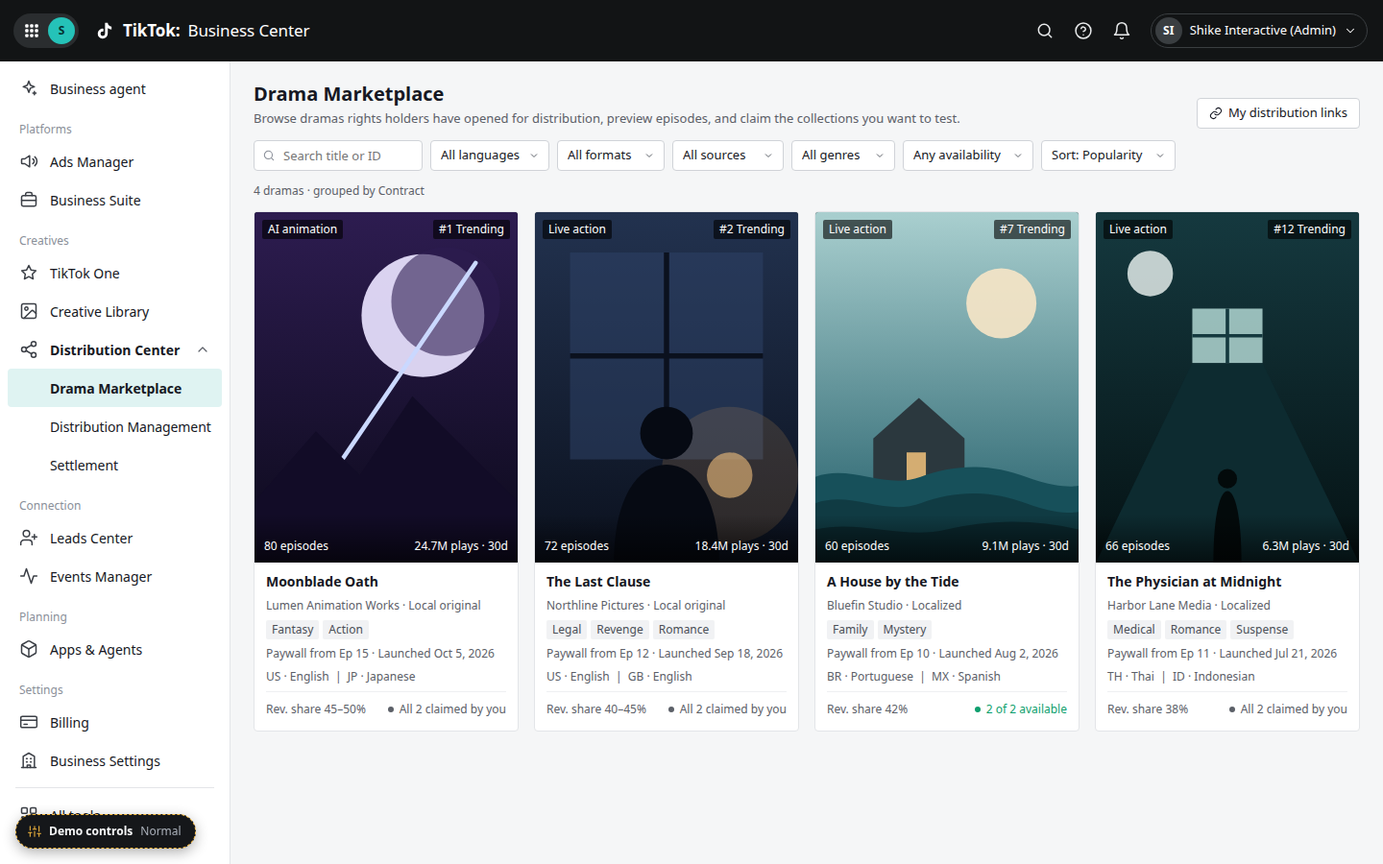
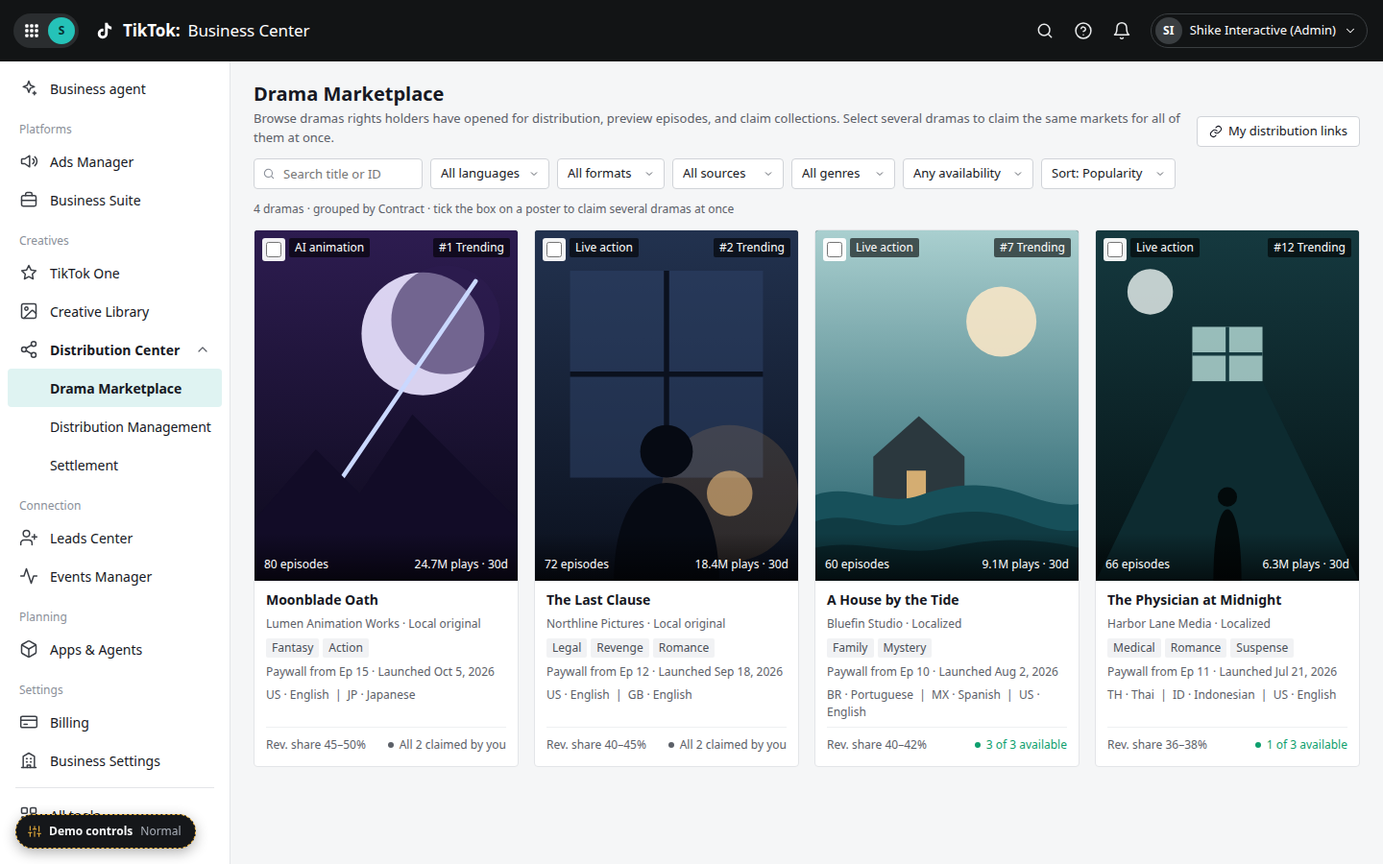
Sync prototype: bulk claim across contracts and two-step Confirm selection / Links ready flow

diff --git a/index.html b/index.html
@@ -162,6 +162,26 @@ button.kpi.on{box-shadow:inset 0 -2px 0 var(--primary)}
 .card{background:#fff;border:1px solid var(--border);border-radius:4px;overflow:hidden;cursor:pointer;display:flex;flex-direction:column;text-align:left;padding:0}
 .card:hover{border-color:#B9C0C7}
 .card:focus-visible{outline:2px solid var(--primary);outline-offset:1px}
+.card.picked{border-color:var(--primary);box-shadow:0 0 0 1px var(--primary)}
+.card-pick{width:24px;height:24px;border-radius:3px;background:rgba(255,255,255,.94);display:inline-flex;align-items:center;justify-content:center;cursor:pointer}
+.selbar{position:fixed;left:264px;right:24px;bottom:16px;z-index:60;background:#fff;border:1px solid var(--border2);border-left:3px solid var(--primary);border-radius:4px;box-shadow:0 4px 16px rgba(22,24,35,.14);display:flex;align-items:center;gap:8px;padding:8px 12px 8px 16px}
+.selbar .grow{flex:1;min-width:0;overflow:hidden;text-overflow:ellipsis;white-space:nowrap;color:var(--text2)}
+.selbar .grow b{color:var(--text)}
+.page-pad-sel{padding-bottom:72px}
+.steps{display:flex;align-items:center;gap:8px;font-size:12px;color:var(--text3);margin-bottom:14px}
+.steps span{display:inline-flex;align-items:center;gap:6px}
+.steps i{font-style:normal;width:18px;height:18px;border-radius:50%;border:1px solid var(--border2);display:inline-flex;align-items:center;justify-content:center;font-size:11px}
+.steps .on{color:var(--text);font-weight:600}
+.steps .on i{background:var(--primary);border-color:var(--primary);color:#fff}
+.steps .done{color:var(--primary-t)}
+.steps .done i{background:var(--primary-bg);border-color:var(--primary);color:var(--primary-t)}
+.steps .sep{width:32px;height:1px;background:var(--border2)}
+.mk-chips{display:flex;flex-wrap:wrap;gap:8px}
+.mk-chip{display:inline-flex;align-items:center;gap:8px;height:32px;padding:0 10px;border:1px solid var(--border2);border-radius:4px;cursor:pointer;background:#fff;font-weight:500}
+.mk-chip.on{border-color:var(--primary);background:var(--primary-bg)}
+.mk-chip .faint{font-weight:400;font-size:12px}
+.flow-h{font-size:12px;font-weight:600;color:var(--text2);margin:0 0 8px}
+.tbl td.grp{border-right:1px solid var(--row);vertical-align:top}
 .poster-box{position:relative;aspect-ratio:3/4;background:#1d2329;overflow:hidden}
 .poster-box svg.poster{position:absolute;inset:0;width:100%;height:100%;display:block}
 .poster-box .ov-tl{position:absolute;top:8px;left:8px;display:flex;gap:4px}
@@ -406,10 +426,12 @@ const COLLECTIONS = [
   {id:'COL-GB-18422', ctr:'CTR-902184', market:'United Kingdom', code:'GB', lang:'English', share:40},
   {id:'COL-BR-77310', ctr:'CTR-781230', market:'Brazil', code:'BR', lang:'Portuguese', share:42},
   {id:'COL-MX-77311', ctr:'CTR-781230', market:'Mexico', code:'MX', lang:'Spanish', share:42},
+  {id:'COL-US-77312', ctr:'CTR-781230', market:'United States', code:'US', lang:'English', share:40},
   {id:'COL-US-55001', ctr:'CTR-550361', market:'United States', code:'US', lang:'English', share:50},
   {id:'COL-JP-55002', ctr:'CTR-550361', market:'Japan', code:'JP', lang:'Japanese', share:45},
   {id:'COL-TH-34001', ctr:'CTR-340918', market:'Thailand', code:'TH', lang:'Thai', share:38},
-  {id:'COL-ID-34002', ctr:'CTR-340918', market:'Indonesia', code:'ID', lang:'Indonesian', share:38}
+  {id:'COL-ID-34002', ctr:'CTR-340918', market:'Indonesia', code:'ID', lang:'Indonesian', share:38},
+  {id:'COL-US-34003', ctr:'CTR-340918', market:'United States', code:'US', lang:'English', share:36}
 ];
 const ADS = {
   'COL-US-18421': [['1812004417','LC_US_hook_courtroom_v3','LC US · Broad · Oct'],['1812004418','LC_US_reveal_clause_v1','LC US · Broad · Oct'],['1812004431','LC_US_romance_cut_v2','LC US · Lookalike'],['1812004432','LC_US_ep12_tease','LC US · Lookalike'],['1812004450','LC_US_trailer_15s','LC US · Retarget']],
@@ -446,6 +468,7 @@ function freshUI(){
   return {
     mk:{q:'', lang:'all', format:'all', source:'all', genre:'all', avail:'all', sort:'pop'},
     lv:{q:'', status:'all', ap:'all', market:'all', sel:new Set()},
+    pick:new Set(),
     bd:{q:'', open:new Set(['CTR-902184'])},
     st:{period:'all', bc:'all', status:'all'},
     pl:{q:'', type:'all'},
@@ -459,7 +482,7 @@ function mkLink(col, code, created){
     history:[{t:created, e:'Link generated', d:'Key ' + col + ' × BC ' + BCS.main.id, k:'ok'}, {t:created, e:'Link active', d:'Distribution enabled by the rights holder in TTDC', k:'ok'}]};
 }
 function buildData(st){
-  const claim = {'COL-US-18421':'claimed','COL-GB-18422':'claimed','COL-BR-77310':'available','COL-MX-77311':'available','COL-US-55001':'claimed','COL-JP-55002':'claimed','COL-TH-34001':'claimed','COL-ID-34002':'claimed'};
+  const claim = {'COL-US-18421':'claimed','COL-GB-18422':'claimed','COL-BR-77310':'available','COL-MX-77311':'available','COL-US-55001':'claimed','COL-JP-55002':'claimed','COL-TH-34001':'claimed','COL-ID-34002':'claimed','COL-US-77312':'available','COL-US-34003':'available'};
   const d = {
     cols: COLLECTIONS.map(c => Object.assign({}, c, {claim:claim[c.id], dist:'open'})),
     links: [mkLink('COL-US-18421','k7Qm2x','Sep 20, 2026 10:14 UTC'), mkLink('COL-GB-18422','p3Lw9a','Sep 21, 2026 08:02 UTC'), mkLink('COL-US-55001','v8Rt4c','Oct 7, 2026 15:40 UTC'), mkLink('COL-TH-34001','d2Hn6s','Aug 2, 2026 11:25 UTC')],
@@ -510,7 +533,8 @@ function buildData(st){
   if (st === 'partial'){
     const j = mkLink('COL-JP-55002','m5Yz8e','Nov 3, 2026 02:55 UTC'); j.isNew = true; d.links.push(j);
     C('COL-BR-77310').claim = 'claimed';
-    d.lastClaim = {ctr:'CTR-781230', items:[{col:'COL-BR-77310', r:'claimed'}, {col:'COL-MX-77311', r:'failed', why:'Terms changed while you were confirming (revenue share 42% to 40%, version 3 to 4). Review the new terms and claim again.'}]};
+    const b = mkLink('COL-BR-77310','b3Rv6k','Nov 3, 2026 02:52 UTC'); b.isNew = true; d.links.push(b);
+    d.lastClaim = {ctrs:['CTR-781230'], items:[{col:'COL-BR-77310', r:'ready'}, {col:'COL-MX-77311', r:'failed', why:'Terms changed while you were confirming (revenue share 42% to 40%, version 3 to 4). Review the new terms and try again.'}]};
     d.lastGen = [{col:'COL-JP-55002', r:'generated'}, {col:'COL-ID-34002', r:'failed', why:'Collection version is updating in TTDC. Retry in a few minutes; retrying won\u2019t create a duplicate link.'}, {col:'COL-US-55001', r:'existed'}];
     d.stmPartial = true;
   }
@@ -656,7 +680,7 @@ function onRoute(){
   const page = ROUTE[path];
   const st = STATES.some(x => x[0] === state) ? state : 'normal';
   if (!page || state !== st || PATH[page] !== path){ location.replace('#' + PATH[page || 'marketplace'] + '?state=' + st); return; }
-  if (st !== S.state || !S.data){ S.state = st; S.data = buildData(st); UI.lv.sel.clear(); UI.dismissed.clear(); closeAll(); stopPlayer(); }
+  if (st !== S.state || !S.data){ S.state = st; S.data = buildData(st); UI.lv.sel.clear(); UI.pick.clear(); UI.dismissed.clear(); closeAll(); stopPlayer(); }
   if (page !== S.page){ const first = S.page === null; S.page = page; closeAll(); stopPlayer(); if (!first) window.scrollTo(0, 0); }
   render();
   if (S.after){ const f = S.after; S.after = null; f(); }
@@ -710,11 +734,11 @@ function pageMarketplace(){
   const f = UI.mk; const st = S.state;
   const langs = Array.from(new Set(COLLECTIONS.map(c => c.lang)));
   const genres = Array.from(new Set([].concat(...CONTRACTS.map(c => c.genres)))).sort();
-  let out = `<div class="ph"><div><h1>Drama Marketplace</h1><p>Browse dramas rights holders have opened for distribution, preview episodes, and claim the collections you want to test.</p></div><div><button class="btn" data-act="go" data-to="links">${ic('link', 14)}My distribution links</button></div></div>`;
+  let out = `<div class="ph"><div><h1>Drama Marketplace</h1><p>Browse dramas rights holders have opened for distribution, preview episodes, and claim collections. Select several dramas to claim the same markets for all of them at once.</p></div><div><button class="btn" data-act="go" data-to="links">${ic('link', 14)}My distribution links</button></div></div>`;
   out += '<div class="stack">';
   const gn = globalNotice(); if (gn) out += gn;
-  if (st === 'partial' && D().lastClaim && !UI.dismissed.has('mk-partial')) out += banner('warn', '<b>Your last claim partially succeeded.</b> A House by the Tide: 1 collection claimed, 1 failed because the terms changed during confirmation.', '<button class="btn btn-sm" data-act="last-claim">View results</button><button class="btn btn-icon" data-act="dismiss" data-k="mk-partial" aria-label="Dismiss">' + ic('close', 14) + '</button>');
-  if (st === 'unknown' && colOf('COL-MX-77311').claim === 'confirming') out += banner('warn', '<b>A claim is still being confirmed.</b> A House by the Tide · Mexico · Spanish (COL-MX-77311). Don\u2019t submit it again; the result updates automatically.', '<button class="btn btn-sm" data-act="recheck-claim" data-col="COL-MX-77311">Check again</button>', 'clock');
+  if (st === 'partial' && D().lastClaim && !UI.dismissed.has('mk-partial')) out += banner('warn', '<b>Your last claim partially succeeded.</b> A House by the Tide: 1 collection claimed with its link ready, 1 failed because the terms changed during confirmation.', '<button class="btn btn-sm" data-act="last-claim">View results</button><button class="btn btn-icon" data-act="dismiss" data-k="mk-partial" aria-label="Dismiss">' + ic('close', 14) + '</button>');
+  if (st === 'unknown' && colOf('COL-MX-77311').claim === 'confirming') out += banner('warn', '<b>A claim is still being confirmed.</b> A House by the Tide · Mexico · Spanish (COL-MX-77311). Don\u2019t submit it again; its link is generated automatically once the claim is confirmed.', '<button class="btn btn-sm" data-act="recheck-claim" data-col="COL-MX-77311">Check again</button>', 'clock');
   if (st === 'invalid') out += banner('err', '<b>3 collections you claimed are no longer open for distribution.</b> Their links are invalid and TTAM is auto-pausing affected ads.', '<button class="btn btn-sm" data-act="go-links-invalid">Review links</button>');
   if (st !== 'empty' && st !== 'error'){
     out += `<div class="toolbar"><div class="left">
@@ -735,17 +759,23 @@ function pageMarketplace(){
     out += '<div class="panel">' + emptyBlock('film', 'No dramas are open for distribution yet', 'Rights holders open dramas for distribution in TTDC. New dramas appear here automatically.', '<button class="btn" data-act="toast" data-msg="Checked for updates. No new dramas yet." data-type="info">' + ic('refresh', 14) + 'Check for updates</button>') + '</div>';
   } else {
     const list = mkFiltered();
-    out += `<div class="mk-count">${plural(list.length, 'drama')} · grouped by Contract</div>`;
+    const pk = UI.pick.size;
+    out += `<div class="mk-count">${plural(list.length, 'drama')} · grouped by Contract${pk ? '' : ' · tick the box on a poster to claim several dramas at once'}</div>`;
     if (!list.length) out += '<div class="panel">' + emptyBlock('search', 'No dramas match your filters', 'Try a different keyword or clear filters.', '<button class="btn" data-act="mk-clear">Clear filters</button>') + '</div>';
     else out += '<div class="grid">' + list.map(card).join('') + '</div>';
+    if (pk){
+      const names = Array.from(UI.pick).map(id => ctrOf(id).title);
+      out += `<div class="page-pad-sel"></div><div class="selbar" role="region" aria-label="Selected dramas"><span class="grow"><b>${plural(pk, 'drama')} selected</b> · ${esc(names.join(', '))}</span><button class="btn" data-act="pick-all">Select all shown</button><button class="btn" data-act="pick-clear">Clear</button><button class="btn btn-primary" data-act="bulk-claim">Claim collections</button></div>`;
+    }
   }
   return out + '</div>';
 }
 function card(c){
   const cs = colsOf(c.id); const shares = cs.map(x => x.share); const mn = Math.min.apply(null, shares), mx = Math.max.apply(null, shares);
-  return `<button class="card" data-act="open-drama" data-id="${c.id}" aria-label="${esc(c.title)}">
+  const on = UI.pick.has(c.id);
+  return `<div class="card ${on ? 'picked' : ''}" role="button" tabindex="0" data-act="open-drama" data-id="${c.id}" aria-label="${esc(c.title)}">
     <div class="poster-box">${poster(c.id)}
-      <div class="ov-tl"><span class="tag dark">${c.format}</span></div>
+      <div class="ov-tl"><label class="card-pick" title="Select for bulk claim"><input type="checkbox" class="cb" name="pick-${c.id}" data-chg="mk-pick" data-id="${c.id}" ${on ? 'checked' : ''} aria-label="Select ${esc(c.title)}"></label><span class="tag dark">${c.format}</span></div>
       <div class="ov-tr"><span class="tag dark">#${c.rank} Trending</span></div>
       <div class="ov-b"><span>${c.episodes} episodes</span><span>${c.plays} plays · 30d</span></div>
     </div>
@@ -756,7 +786,7 @@ function card(c){
       <div class="card-m">Paywall from Ep ${c.paywall} · Launched ${c.launchL}</div>
       <div class="card-m">${cs.map(x => x.code + ' · ' + x.lang).join('&nbsp;&nbsp;|&nbsp;&nbsp;')}</div>
       <div class="card-f"><span class="muted">Rev. share ${mn === mx ? mn + '%' : mn + '–' + mx + '%'}</span>${claimSummary(c.id)}</div>
-    </div></button>`;
+    </div></div>`;
 }
 
 /* Drama detail drawer + player */
@@ -843,7 +873,7 @@ function dramaDrawer(ctrId){
   return {title:c.title, width:780,
     sub:`<span>${c.holder}</span><span class="faint">·</span><span class="mono">${c.id}</span><span class="tag">${c.format}</span><span class="tag">${c.source}</span>`,
     body,
-    footer:`<span class="grow">${n ? plural(n, 'collection') + ' selected' : 'Select collections to claim. Claiming doesn\u2019t create ads.'}</span><button class="btn" data-act="close-drawer">Close</button><button class="btn btn-primary" data-act="claim-open">Claim selected${n ? ' (' + n + ')' : ''}</button>`};
+    footer:`<span class="grow">${n ? plural(n, 'collection') + ' selected · links are generated automatically' : 'Select collections to claim. Links are generated automatically; no ads are created.'}</span><button class="btn" data-act="close-drawer">Close</button><button class="btn btn-primary" data-act="claim-open">Claim selected${n ? ' (' + n + ')' : ''}</button>`};
 }
 function updatePlayer(){
   const c = ctrOf(PL.ctr); if (!c || !$('#player')){ stopPlayer(); return; }
@@ -872,41 +902,88 @@ function playToggle(){
   updatePlayer();
 }
 
-/* Claim flow */
-function claimConfirmModal(ctrId){
-  const c = ctrOf(ctrId); const items = Array.from(DS.sel).map(colOf);
-  return {title:'Confirm claim', width:600,
-    body:`<p style="margin:0 0 12px">You\u2019re claiming ${plural(items.length, 'collection')} of <b>${c.title}</b> for <b>${BCS.main.name}</b> (BC ${BCS.main.id}).</p>
-      <div class="panel"><table class="tbl"><thead><tr><th>Market · language</th><th style="width:160px">Collection ID</th><th class="num" style="width:100px">Rev. share</th></tr></thead><tbody>${items.map(x => `<tr><td>${colLabel(x)}</td><td class="mono">${x.id}</td><td class="num">${x.share}%</td></tr>`).join('')}</tbody></table></div>
-      <ul class="muted" style="margin:12px 0 0;padding-left:18px">
-        <li>Each claim is keyed by Collection ID × your Business Center. Submitting twice won\u2019t create a duplicate claim.</li>
-        <li>Claiming doesn\u2019t create ads. After claiming, generate distribution links and use them in TTAM.</li>
-        <li>If the rights holder changes terms while you confirm, that collection won\u2019t be claimed and you\u2019ll see why.</li></ul>`,
-    footer:`<button class="btn" data-act="close-modal">Cancel</button><button class="btn btn-primary" data-act="claim-submit" data-ctr="${ctrId}">Confirm claim</button>`};
+/* Claim flow: Confirm selection -> Links ready (single drama or bulk) */
+const CF = {ctrs:[], keys:new Set(), results:null};
+const mkKey = c => c.market + ' · ' + c.lang;
+function openClaimFlow(ctrs, keys){ CF.ctrs = ctrs.slice(); CF.keys = new Set(keys || []); CF.results = null; openModal(claimFlowModal); }
+function flowOptions(){
+  const m = new Map();
+  CF.ctrs.forEach(id => colsOf(id).forEach(c => { const k = mkKey(c); const e = m.get(k) || {k, has:0}; e.has++; m.set(k, e); }));
+  return Array.from(m.values()).sort((a, b) => b.has - a.has || a.k.localeCompare(b.k));
 }
-function claimOutcome(ids){
-  return ids.map((id, i) => {
-    const c = colOf(id);
-    if (c.claim === 'claimed') return {col:id, r:'existed'};
-    if (S.state === 'unknown'){ c.claim = 'confirming'; return {col:id, r:'unknown'}; }
-    if (S.state === 'partial' && ids.length > 1 && i === ids.length - 1) return {col:id, r:'failed', why:'Terms changed while you were confirming (revenue share ' + c.share + '% to ' + (c.share - 2) + '%). Review the new terms and claim again.'};
-    c.claim = 'claimed'; return {col:id, r:'claimed'};
+function claimPlan(){
+  return CF.ctrs.map(id => {
+    const cs = colsOf(id); const items = [], missing = [];
+    flowOptions().map(o => o.k).filter(k => CF.keys.has(k)).forEach(k => {
+      const c = cs.find(x => mkKey(x) === k);
+      if (!c){ missing.push(k); return; }
+      let act = 'claim', note = 'Claim and generate link';
+      if (c.dist !== 'open'){ act = 'na'; note = 'No longer open for distribution'; }
+      else if (c.claim === 'confirming'){ act = 'skip'; note = 'An earlier claim is still confirming'; }
+      else if (c.claim === 'claimed' && linkOf(c.id)){ act = 'skip'; note = 'Already claimed by you; link exists'; }
+      else if (c.claim === 'claimed'){ act = 'link'; note = 'Already claimed · generate link'; }
+      items.push({col:c.id, act, note});
+    });
+    return {ctr:id, items, missing};
   });
 }
-const CLAIM_R = {claimed:['ok','Claimed'], existed:['muted','Already claimed'], failed:['err','Failed'], unknown:['warn spin','Confirming']};
-function claimResultModal(res){
-  const ctr = ctrOf(colOf(res.items[0].col).ctr);
-  const n = k => res.items.filter(x => x.r === k).length;
-  const ok = n('claimed') + n('existed');
-  const unknown = n('unknown'), failed = n('failed');
-  const title = unknown ? 'Claim result pending' : failed && ok ? 'Claim partially succeeded' : failed ? 'Claim failed' : 'Collections claimed';
-  return {title, width:640, sub:ctr.title + ' · ' + BCS.main.name,
-    body:`<div class="res-sum"><div><b>${n('claimed')}</b>Claimed</div><div><b>${n('existed')}</b>Already claimed</div><div><b>${failed}</b>Failed</div><div><b>${unknown}</b>Confirming</div></div>
-      ${unknown ? banner('warn', 'We\u2019re still confirming with the rights holder system. <b>Don\u2019t submit again</b>; a repeat request won\u2019t create a duplicate, and the result updates automatically.', '', 'clock') + '<div style="height:12px"></div>' : ''}
-      <div class="panel"><table class="tbl"><thead><tr><th>Collection</th><th style="width:150px">Result</th><th>Details</th></tr></thead><tbody>${res.items.map(x => { const c = colOf(x.col); return `<tr><td><div class="cell-title">${colLabel(c)}</div><div class="cell-sub mono">${c.id}</div></td><td>${stChip(CLAIM_R, x.r)}</td><td class="cell-sub" style="white-space:normal">${x.why || (x.r === 'claimed' ? 'Ready for link generation' : x.r === 'existed' ? 'No duplicate created' : x.r === 'unknown' ? 'Waiting for confirmation' : '')}</td></tr>`; }).join('')}</tbody></table></div>`,
-    footer:`${unknown ? '<button class="btn" data-act="claim-recheck">' + ic('refresh', 14) + 'Check again</button>' : ''}${failed ? '<button class="btn" data-act="claim-retry">Review and retry failed</button>' : ''}<button class="btn" data-act="close-modal">Done</button>${ok ? '<button class="btn btn-primary" data-act="claim-to-gen">Generate links</button>' : ''}`};
+function stepper(n){ return `<div class="steps"><span class="${n === 1 ? 'on' : 'done'}"><i>${n === 1 ? '1' : ic('check', 10)}</i>Confirm selection</span><span class="sep"></span><span class="${n === 2 ? 'on' : ''}"><i>2</i>Links ready</span></div>`; }
+function claimFlowModal(){ return CF.results ? linksReadyModal() : confirmSelModal(); }
+function confirmSelModal(){
+  const M = CF.ctrs.length; const opts = flowOptions(); const plan = claimPlan();
+  const todo = [].concat(...plan.map(p => p.items.filter(i => i.act === 'claim' || i.act === 'link')));
+  const skipN = plan.reduce((a, p) => a + p.items.filter(i => i.act === 'skip' || i.act === 'na').length + (p.missing.length ? 1 : 0), 0);
+  const chips = opts.map((o, i) => `<label class="mk-chip ${CF.keys.has(o.k) ? 'on' : ''}"><input type="checkbox" class="cb" name="cf-k${i}" data-chg="cf-key" value="${esc(o.k)}" ${CF.keys.has(o.k) ? 'checked' : ''}>${esc(o.k)}${M > 1 ? `<span class="faint">in ${o.has} of ${M}</span>` : ''}</label>`).join('');
+  const OUT = {claim:['info','Will claim'], link:['info','Will get link'], skip:['muted','Skipped'], na:['muted','Unavailable']};
+  let rows = '';
+  plan.forEach(p => {
+    const c = ctrOf(p.ctr); const span = p.items.length + (p.missing.length ? 1 : 0);
+    if (!span){ rows += `<tr><td class="grp"><div class="cell-title">${c.title}</div><div class="cell-sub mono">${c.id}</div></td><td colspan="3" class="faint">Pick a market above</td></tr>`; return; }
+    const head = `<td class="grp" rowspan="${span}"><div class="cell-title">${c.title}</div><div class="cell-sub mono">${c.id}</div></td>`;
+    p.items.forEach((it, i) => { const x = colOf(it.col);
+      rows += `<tr>${i === 0 ? head : ''}<td><div class="cell-title">${colLabel(x)}</div><div class="cell-sub mono">${x.id} · ${x.share}%</div></td><td>${stChip(OUT, it.act)}</td><td class="cell-sub" style="white-space:normal">${it.note}</td></tr>`; });
+    if (p.missing.length) rows += `<tr>${p.items.length ? '' : head}<td class="faint">${p.missing.map(esc).join(', ')}</td><td>${stChip(OUT, 'na')}</td><td class="cell-sub" style="white-space:normal">This drama has no ${p.missing.length > 1 ? 'versions' : 'version'} for ${p.missing.length > 1 ? 'these markets' : 'this market'}</td></tr>`;
+  });
+  return {title:'Claim collections', width:780, sub:`<span>${plural(M, 'drama')}</span><span class="faint">·</span><span>${BCS.main.name} (BC ${BCS.main.id})</span>`,
+    body:`${stepper(1)}
+      <div class="flow-h">Markets · applied to every selected drama</div>
+      <div class="mk-chips">${chips}</div>
+      <div class="flow-h" style="margin-top:16px">What will be claimed</div>
+      <div class="panel"><table class="tbl"><thead><tr><th style="width:200px">Drama</th><th style="width:210px">Collection</th><th style="width:120px">Outcome</th><th>Details</th></tr></thead><tbody>${rows}</tbody></table></div>
+      <ul class="muted" style="margin:12px 0 0;padding-left:18px">
+        <li>Confirming claims each collection and generates its distribution link in one go. Each is keyed by Collection ID × your Business Center, so repeating it never creates duplicates.</li>
+        <li>Claiming doesn\u2019t create ads. If a rights holder changes terms while you confirm, that collection isn\u2019t claimed and you\u2019ll see why.</li></ul>`,
+    footer:`<span class="grow">${CF.keys.size ? plural(todo.length, 'collection') + ' to claim' + (skipN ? ' · ' + skipN + ' skipped or unavailable' : '') : 'Pick at least one market'}</span><button class="btn" data-act="close-modal">Cancel</button><button class="btn btn-primary" data-act="cf-submit">Confirm selection${todo.length ? ' (' + todo.length + ')' : ''}</button>`};
 }
-let LAST_CLAIM = null;
+function runClaim(items){
+  const N = items.length;
+  return items.map((it, i) => {
+    const c = colOf(it.col);
+    if (S.state === 'unknown'){ if (c.claim === 'available') c.claim = 'confirming'; return {col:c.id, r:'unknown'}; }
+    if (S.state === 'partial' && N > 1 && i === N - 1) return {col:c.id, r:'failed', why: c.claim === 'claimed' ? 'Collection version is updating in TTDC. Retry in a few minutes; retrying won\u2019t create a duplicate link.' : 'Terms changed while you were confirming (revenue share ' + c.share + '% to ' + (c.share - 2) + '%). Review the new terms and try again.'};
+    c.claim = 'claimed';
+    if (S.state === 'partial' && N > 2 && i === 1){ if (!linkOf(c.id)) createLink(c.id).isNew = false; return {col:c.id, r:'existed', why:'Already claimed for this BC a moment ago. Existing link returned; no duplicate created.'}; }
+    if (!linkOf(c.id)) createLink(c.id);
+    return {col:c.id, r:'ready'};
+  });
+}
+const FLOW_R = {ready:['ok','Link ready'], existed:['muted','Already existed'], failed:['err','Failed'], unknown:['warn spin','Confirming']};
+const flowLinks = () => CF.results.filter(x => (x.r === 'ready' || x.r === 'existed') && linkOf(x.col)).map(x => linkOf(x.col));
+function linksReadyModal(){
+  const R = CF.results; const n = k => R.filter(x => x.r === k).length;
+  const unknown = n('unknown'), failed = n('failed'), usable = flowLinks().length;
+  const rows = R.map(x => { const c = colOf(x.col); const l = linkOf(x.col);
+    const linkCell = l && (x.r === 'ready' || x.r === 'existed') ? `<div class="linkbox"><span class="mono">${l.url}</span>${copyBtn(l.url, 'Link copied')}</div>${x.why ? '<div class="cell-sub" style="white-space:normal">' + x.why + '</div>' : ''}`
+      : `<span class="cell-sub" style="white-space:normal">${x.why || (x.r === 'unknown' ? 'Waiting for confirmation. The link is generated automatically once confirmed.' : '')}</span>`;
+    return `<tr><td><div class="cell-title">${ctrOf(c.ctr).title}</div><div class="cell-sub">${colLabel(c)} · <span class="mono">${c.id}</span></div></td><td>${stChip(FLOW_R, x.r)}</td><td>${linkCell}</td></tr>`; }).join('');
+  return {title:'Claim collections', width:780, sub:`<span>${plural(new Set(R.map(x => colOf(x.col).ctr)).size, 'drama')}</span><span class="faint">·</span><span>${BCS.main.name} (BC ${BCS.main.id})</span>`,
+    body:`${stepper(2)}
+      <div class="res-sum"><div><b>${n('ready')}</b>Link ready</div><div><b>${n('existed')}</b>Already existed</div><div><b>${failed}</b>Failed</div><div><b>${unknown}</b>Confirming</div></div>
+      ${unknown ? banner('warn', 'We\u2019re still confirming with the rights holder system. <b>Don\u2019t submit again</b>; a repeat request won\u2019t create a duplicate claim or link.', '', 'clock') + '<div style="height:12px"></div>' : ''}
+      <div class="panel"><table class="tbl"><thead><tr><th>Drama · collection</th><th style="width:124px">Result</th><th style="width:340px">Distribution link</th></tr></thead><tbody>${rows}</tbody></table></div>
+      <div class="faint" style="font-size:12px;margin-top:8px">Paste these links into TTAM when you create ads. Find them anytime in My distribution links.</div>`,
+    footer:`<span class="grow">${usable ? plural(usable, 'link') + ' ready to use' : 'No links ready yet'}</span>${unknown ? '<button class="btn" data-act="cf-recheck">' + ic('refresh', 14) + 'Check again</button>' : ''}${failed ? '<button class="btn" data-act="cf-retry">Retry failed</button>' : ''}<button class="btn" data-act="cf-copy">${ic('copy', 14)}Copy all</button><button class="btn" data-act="cf-export">${ic('download', 14)}Export all</button><button class="btn btn-primary" data-act="close-modal">Done</button>`};
+}
 
 /* ---------- Distribution Management ---------- */
 function dmHeader(tab){
@@ -1275,20 +1352,24 @@ const ACT = {
   'pl-ep': el => setEp(+el.dataset.ep),
   'pl-speed': el => { PL.speed = +el.dataset.v; $$('.pl-speed button').forEach(b => b.classList.toggle('on', +b.dataset.v === PL.speed)); toast('Playback speed ' + PL.speed + 'x', 'info'); },
   'pl-seek': (el, e) => { const r = el.getBoundingClientRect(); PL.t = Math.max(0, Math.min(1, (e.clientX - r.left) / r.width)) * epDur(PL.ep); updatePlayer(); },
-  'claim-open': () => { if (!DS.sel.size){ toast('Select at least one available collection to claim.', 'warn'); return; } openModal(() => claimConfirmModal(PL.ctr)); },
-  'claim-submit': el => busy(el, 800, () => {
-    const ids = Array.from(DS.sel); const items = claimOutcome(ids);
-    LAST_CLAIM = {items}; DS.sel = new Set(items.filter(x => x.r === 'failed').map(x => x.col));
-    refreshDrawer(); render(); openModal(() => claimResultModal(LAST_CLAIM));
-  }),
-  'claim-recheck': el => busy(el, 700, () => {
-    LAST_CLAIM.items.forEach(x => { if (x.r === 'unknown'){ colOf(x.col).claim = 'claimed'; x.r = 'claimed'; x.why = 'Confirmed on recheck'; } });
-    refreshModal(); refreshDrawer(); render(); toast('Claim confirmed.');
-  }),
-  'claim-retry': () => { closeModal(); toast('Review the updated terms, then claim again. Failed collections are still selected.', 'info'); },
-  'claim-to-gen': () => { const ids = LAST_CLAIM.items.filter(x => x.r === 'claimed' || x.r === 'existed').map(x => x.col).filter(id => !linkOf(id)); closeAll(); stopPlayer(); go('links', () => { openGenerate(); if (ids.length){ GS.sel = new Set(ids); refreshDrawer(); } }); },
-  'last-claim': () => { LAST_CLAIM = D().lastClaim; openModal(() => claimResultModal(LAST_CLAIM)); },
-  'recheck-claim': el => busy(el, 700, () => { colOf(el.dataset.col).claim = 'claimed'; S.state === 'unknown' && UI.dismissed.add('mk-unknown'); toast('Claim confirmed: A House by the Tide · Mexico · Spanish.'); render(); }),
+  'claim-open': () => { if (!DS.sel.size){ toast('Select at least one available collection to claim.', 'warn'); return; } openClaimFlow([PL.ctr], Array.from(DS.sel).map(id => mkKey(colOf(id)))); },
+  'bulk-claim': () => { if (!UI.pick.size){ toast('Select at least one drama.', 'warn'); return; } openClaimFlow(CONTRACTS.map(c => c.id).filter(id => UI.pick.has(id)), []); },
+  'pick-clear': () => { UI.pick.clear(); render(); },
+  'pick-all': () => { mkFiltered().forEach(c => UI.pick.add(c.id)); render(); },
+  'cf-submit': el => {
+    if (!CF.keys.size){ toast('Pick at least one market.', 'warn'); return; }
+    const items = [].concat(...claimPlan().map(p => p.items.filter(i => i.act === 'claim' || i.act === 'link')));
+    if (!items.length){ toast('Nothing to claim. The selected dramas have no open, unclaimed versions for these markets.', 'warn'); return; }
+    busy(el, 900, () => { CF.results = runClaim(items); UI.pick.clear(); DS.sel = new Set(); refreshModal(); refreshDrawer(); render(); });
+  },
+  'cf-recheck': el => busy(el, 700, () => { CF.results.forEach(x => { if (x.r === 'unknown'){ colOf(x.col).claim = 'claimed'; if (!linkOf(x.col)) createLink(x.col); x.r = 'ready'; x.why = ''; } }); refreshModal(); refreshDrawer(); render(); toast('Claims confirmed and links ready.'); }),
+  'cf-retry': el => busy(el, 800, () => { CF.results.forEach(x => { if (x.r === 'failed'){ colOf(x.col).claim = 'claimed'; if (!linkOf(x.col)) createLink(x.col); x.r = 'ready'; x.why = 'Claimed on retry with the updated terms.'; } }); refreshModal(); refreshDrawer(); render(); toast('Retry succeeded. Same key, no duplicates.'); }),
+  'cf-copy': () => { const ls = flowLinks(); if (!ls.length){ toast('No links are ready to copy yet.', 'warn'); return; } copyText(ls.map(l => l.url).join('\n'), 'Copied ' + plural(ls.length, 'link')); },
+  'cf-export': () => { const R = CF.results.filter(x => (x.r === 'ready' || x.r === 'existed') && linkOf(x.col)); if (!R.length){ toast('No links are ready to export yet.', 'warn'); return; }
+    download('distribution-links.csv', csv([['Drama','Contract ID','Collection ID','Market','Language','Business Center ID','Distribution link','Result']].concat(R.map(x => { const c = colOf(x.col); return [ctrOf(c.ctr).title, c.ctr, c.id, c.market, c.lang, BCS.main.id, linkOf(c.id).url, FLOW_R[x.r][1]]; }))));
+    toast('Exported ' + plural(R.length, 'link') + '.'); },
+  'last-claim': () => { const lc = D().lastClaim; CF.ctrs = lc.ctrs.slice(); CF.keys = new Set(); CF.results = lc.items; openModal(claimFlowModal); },
+  'recheck-claim': el => busy(el, 700, () => { const id = el.dataset.col; colOf(id).claim = 'claimed'; if (!linkOf(id)) createLink(id); toast('Claim confirmed and link ready: A House by the Tide · Mexico · Spanish.'); render(); }),
   'go-links-invalid': () => { UI.lv.status = 'invalid'; UI.lv.ap = 'all'; go('links'); },
   'lv-only-invalid': () => { UI.lv.status = 'invalid'; UI.lv.ap = 'all'; render(); },
   'lv-kpi': el => { const s = el.dataset.s; if (s === 'attention'){ UI.lv.status = 'all'; UI.lv.ap = 'attention'; } else { UI.lv.status = s; UI.lv.ap = 'all'; } render(); },
@@ -1364,6 +1445,8 @@ function setState(st){ location.hash = '#' + PATH[S.page] + '?state=' + st; }
 
 const CHG = {
   'filter': el => { const [grp, key] = el.name.split('.'); UI[grp][key] = el.value; render(); },
+  'mk-pick': el => { el.checked ? UI.pick.add(el.dataset.id) : UI.pick.delete(el.dataset.id); render(); },
+  'cf-key': el => { el.checked ? CF.keys.add(el.value) : CF.keys.delete(el.value); refreshModal(); },
   'dr-sel': el => { el.checked ? DS.sel.add(el.dataset.id) : DS.sel.delete(el.dataset.id); refreshDrawer(); },
   'lv-sel': el => { el.checked ? UI.lv.sel.add(el.dataset.id) : UI.lv.sel.delete(el.dataset.id); render(); },
   'lv-all': el => { lvFiltered().forEach(l => el.checked ? UI.lv.sel.add(l.col) : UI.lv.sel.delete(l.col)); render(); },
@@ -1383,13 +1466,16 @@ const INP = {
 document.addEventListener('click', e => {
   const el = e.target.closest('[data-act]');
   if (!el || el.disabled) return;
-  if (el.tagName === 'TR' && e.target.closest('button, a, input, select, label')) return;
+  const inner = e.target.closest('button, a, input, select, label');
+  if (inner && inner !== el && el.contains(inner)) return;
   const fn = ACT[el.dataset.act];
   if (fn){ e.preventDefault(); fn(el, e); }
 });
 document.addEventListener('change', e => { const el = e.target.closest('[data-chg]'); if (el && CHG[el.dataset.chg]) CHG[el.dataset.chg](el); });
 document.addEventListener('input', e => { const el = e.target.closest('[data-inp]'); if (el && INP[el.dataset.inp]) INP[el.dataset.inp](el); });
 document.addEventListener('keydown', e => {
+  const rb = e.target.closest && e.target.closest('[role="button"][data-act]');
+  if (rb && rb === e.target && (e.key === 'Enter' || e.key === ' ')){ e.preventDefault(); rb.click(); return; }
   if (e.key !== 'Escape') return;
   if ($('#ttam').classList.contains('show')) backFromTtam();
   else if (modalFn) closeModal();

diff --git a/README.md b/README.md
@@ -8,7 +8,9 @@ An interactive, single-file HTML prototype of a **short-drama distributor workbe
 
 Three business modules, all under **Creatives → Distribution Center** in the left nav:
 
-- **Drama Marketplace** — browse distributable dramas and claim collections.
+- **Drama Marketplace** — browse distributable dramas and claim collections, one drama at a time or in bulk: tick the checkbox on several drama cards, then **Claim collections** to claim across multiple contracts at once.
+
+Claiming is a two-step flow: **Confirm selection** (pick the collections to claim) → **Links ready** (distribution links are generated, with **Copy all** / **Export all** for use in TTAM).
 - **Distribution Management** — link view and by-drama view; copy/export links, monitor link validity and auto-pause results.
 - **Settlement** — settlement statements, confirmation, and payout logs.
 
@@ -22,6 +24,8 @@ Each view/state combination is deep-linkable, e.g. `#/distribution/links?state=i
 ## Screenshots
 
 ![Drama Marketplace](screenshots/marketplace.png)
+
+![Bulk claim — Confirm selection](screenshots/bulk-claim.png)
 
 ![Distribution Management — link invalid, auto-pausing](screenshots/link-invalid-autopause.png)
 
